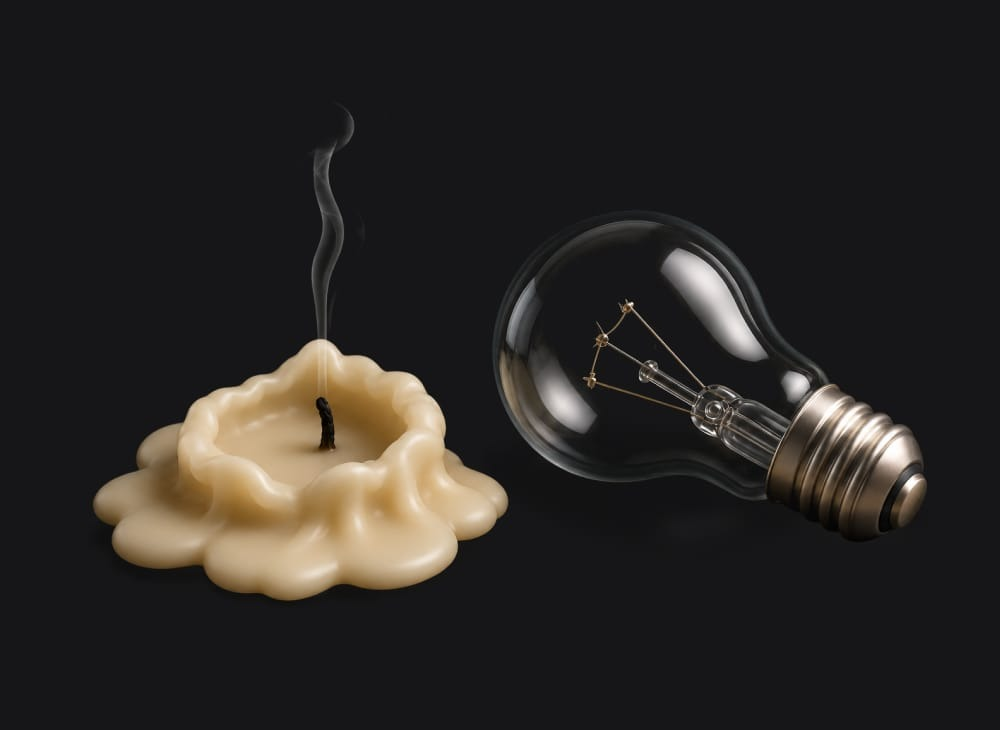
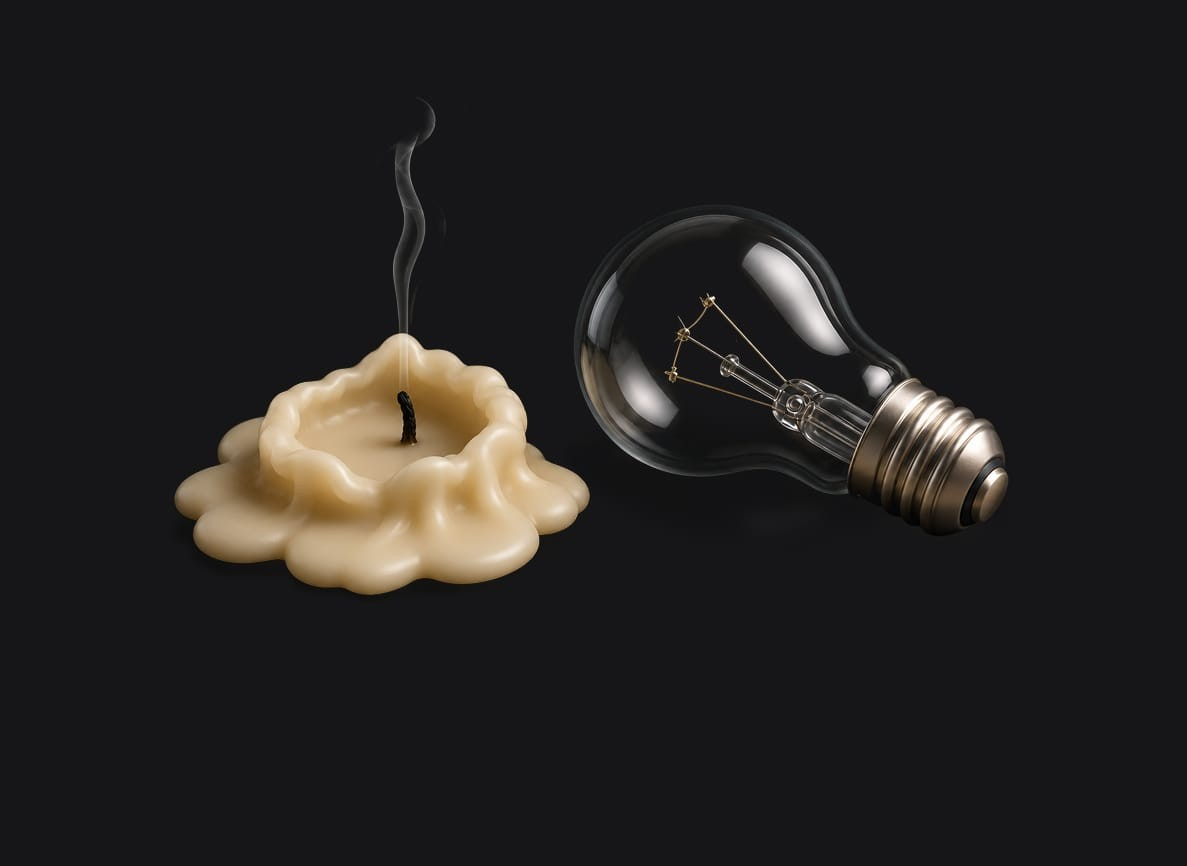
Update Candle Guy and How fast is too fast article images.
Swap in new product art for both cards, move too-fast off the SVG to an optimized raster under src/assets.

Changed region(s): [[0.093, 0.1205, 0.93, 0.8438], [0.558, 0.2411, 0.62, 0.2712], [0.527, 0.2712, 0.558, 0.3014]]

diff --git a/src/data/articles.ts b/src/data/articles.ts
@@ -273,8 +273,10 @@ export const articles: Article[] = [
     title: 'How fast is too fast?',
     description:
       'AI companies aren’t slowing down. They’re swallowing others and shipping more tools every day.',
-    image: '/articles/how-fast-is-too-fast.svg',
-    imageAlt: 'Design and code merging at high speed',
+    image: '/articles/how-fast-is-too-fast.jpg',
+    imageAlt: 'Thought bubble next to the Claude app icon with a green checkmark',
+    imageObjectPosition: 'center',
+    imageFit: 'cover',
     sourceUrl:
       'https://www.linkedin.com/feed/update/urn:li:activity:7450942000440209408/',
     content: [
